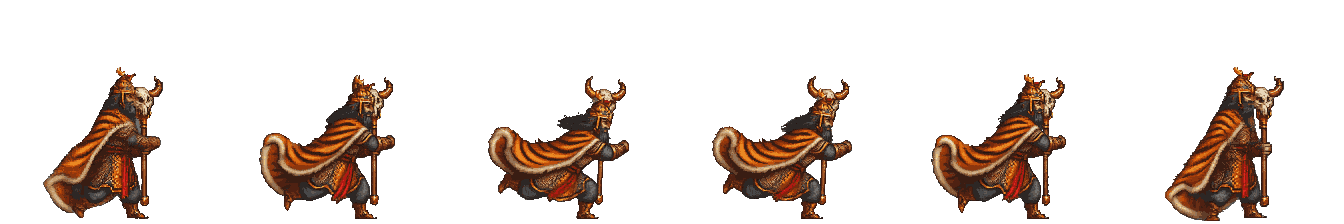
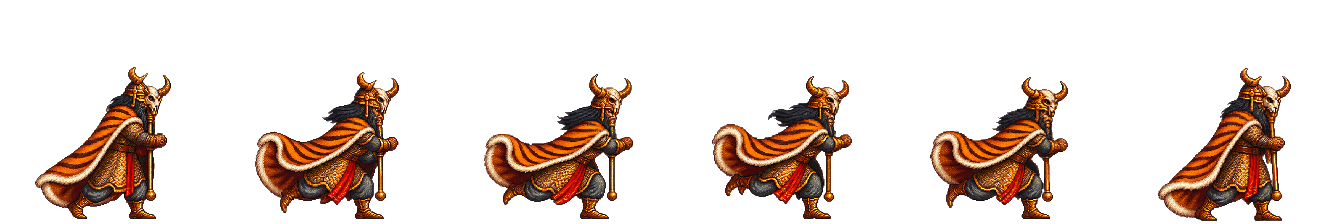
Shahnameh: refresh Rostam core animation artwork

diff --git a/fun/shahnameh/game.js b/fun/shahnameh/game.js
@@ -66,7 +66,7 @@ const FPS = { 'rostam-tanbur': 5, 'rostam-roar': 8, 'olad-bound': 9, 'rostam-pra
 const SIZE = { queen: 150, rider: 124, rostam: 112, lion: 148, jackal: 108, div: 108, scorpion: 86, vulture: 92, ram: 86, dragon: 136, rakhsh: 128, bat: 108, serpent: 92, hag: 108, beauty: 108, spearman: 140, olad: 112, divwarrior: 100, arzhang: 136, whitediv: 204, firediv: 104, ghul: 100 };
 const BODY = { queen: [0.62, 0.42], rider: [0.3, 0.5], rostam: [0.143, 0.393], lion: [0.5, 0.36], jackal: [0.3, 0.22], div: [0.22, 0.34], scorpion: [0.4, 0.22], vulture: [0.33, 0.2], ram: [0.4, 0.4],
   dragon: [0.46, 0.42], rakhsh: [0.5, 0.5], bat: [0.32, 0.24], serpent: [0.31, 0.31], hag: [0.27, 0.42], beauty: [0.2, 0.47], spearman: [0.115, 0.386], olad: [0.17, 0.49], divwarrior: [0.31, 0.64], arzhang: [0.3, 0.7], whitediv: [0.2667, 0.3867], firediv: [0.2, 0.6], ghul: [0.5, 0.36] };
-const V = 97;
+const V = 98;
 const RAKHSH1 = 128 / 229;                                               // Rakhsh's scale in Khan I: his strip is 229 px, the horse a little larger than the lion
 const REVISED_STORY_ART = new Set(['khan1-intro', 'khan4-intro', 'khan4-outro', 'khan5-intro', 'khan5-outro', 'khan7-intro', 'end2', 'open1', 'open2', 'open3', 'open4', 'open5', 'open6', 'khan1-outro', 'khan2-intro', 'khan2-outro', 'khan3-intro', 'khan3-outro', 'khan6-intro', 'khan6-outro', 'end1', 'end3']);
 let wakeArt = false, lionPrologueSeen = false;

diff --git a/fun/shahnameh/index.html b/fun/shahnameh/index.html
@@ -1116,6 +1116,6 @@ body.calm #banner.on{animation-name:banCalm}@keyframes banCalm{0%{opacity:0}15%,
 <script src="boot.js?v=92"></script>
 <script src="assets/vendor/phaser-3.80.1.min.js" data-game-script="engine"></script>
 <script src="journey-events.js?v=123" data-game-script="journey"></script>
-<script src="game.js?v=171" data-game-script="game"></script>
+<script src="game.js?v=172" data-game-script="game"></script>
 </body>
 </html>
